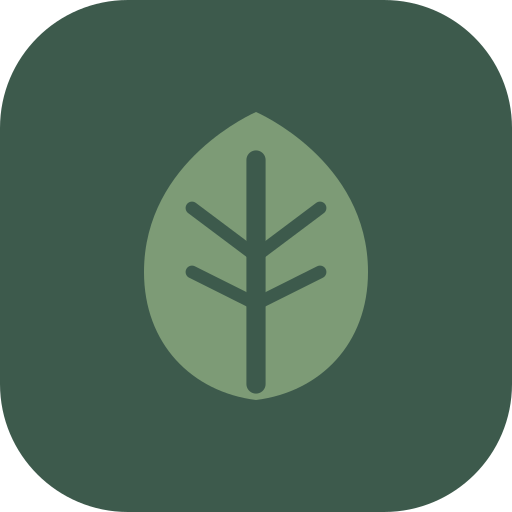
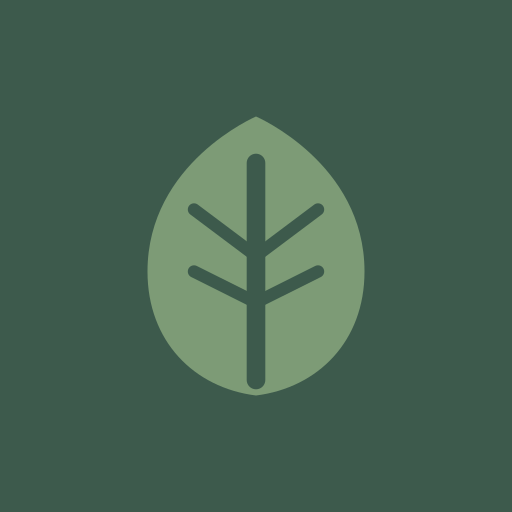
Add 'Before you begin' interstitial, tighten mobile padding, remove clinician nav link (#11)
* Add "Before you begin" interstitial, reduce mobile padding, remove clinician nav link

- Show PWA install prompt (mobile) or enable reminders (desktop) interstitial
  after clicking "Start my programme", before the date picker
- Reduce main content x-padding from 24px to 16px on mobile (px-4 sm:px-6)
- Remove "For clinicians" from nav bar (remains in footer)

* Add "Enable reminders (recommended)" option on date picker step

Shows a tappable button on the date picker card to enable notifications
before beginning. Displays a green confirmation once granted. Only shown
when notifications are supported and not already enabled.

* Change reminders on date picker to toggle switch style

Replaces the button/confirmation with a single toggle row showing
bell icon, label with "(recommended)", and a switch that triggers
the browser permission prompt on first tap.

* Show interstitial only for PWA install; skip to date picker on desktop

Desktop/already-installed users now go straight to the date picker
(which has the reminders toggle), avoiding a redundant "Before you
begin" screen. The interstitial only appears on mobile when the app
isn't installed as a PWA.

* Fix app icon: remove grey corners, enlarge leaf

Regular icons regenerated as full-bleed squares (no baked-in rounded
corners) with a larger leaf (scale 15.5 vs 12.8). The OS applies its
own mask shape, so baked-in rounding caused visible grey corners.
Maskable icons regenerated for consistency.
[…]

diff --git a/src/components/onboarding/WelcomePage.tsx b/src/components/onboarding/WelcomePage.tsx
@@ -1,7 +1,10 @@
 import { useState } from 'react';
 import { useNavigate } from 'react-router-dom';
-import { ArrowRight, Leaf, Heart, Zap, Users } from 'lucide-react';
+import { ArrowRight, Leaf, Heart, Zap, Users, Download, Bell, Share } from 'lucide-react';
 import { useSchedule } from '../../hooks/useSchedule';
+import { useInstallPrompt } from '../../hooks/useInstallPrompt';
+import * as notifications from '../../lib/notifications';
+import { getNotificationPrefs, setNotificationPrefs } from '../../lib/localStore';
 import HowItWorksSection from './HowItWorksSection';
 import { format } from '../../lib/dateUtils';
 import { spell } from '../../lib/spelling';
@@ -10,10 +13,11 @@ import { track } from '../../lib/analytics';
 export default function WelcomePage() {
   const navigate = useNavigate();
   const { createSchedule, schedule } = useSchedule();
+  const { isInstalled, canPrompt, isIOS, promptInstall } = useInstallPrompt();
+  const [showBeforeYouBegin, setShowBeforeYouBegin] = useState(false);
   const [showDatePicker, setShowDatePicker] = useState(false);
   const [startDate, setStartDate] = useState(format(new Date()));
   const [creating, setCreating] = useState(false);
-
   const handleStart = async () => {
     if (schedule) {
       track.programmeContinued();
@@ -31,6 +35,79 @@ export default function WelcomePage() {
     }
   };
 
+  const handleInstall = async () => {
+    await promptInstall();
+    setShowBeforeYouBegin(false);
+    setShowDatePicker(true);
+  };
+
+  const handleEnableReminders = async () => {
+    const granted = await notifications.requestPermission();
+    if (granted) {
+      const prefs = getNotificationPrefs();
+      setNotificationPrefs({ ...prefs, enabled: true });
+    }
+    setShowBeforeYouBegin(false);
+    setShowDatePicker(true);
+  };
+
+  const handleSkip = () => {
+    setShowBeforeYouBegin(false);
+    setShowDatePicker(true);
+  };
+
+  const canInstall = !isInstalled && (canPrompt || isIOS);
+
+  const renderInterstitial = () => (
+    <div className="bg-white rounded-2xl shadow-md border border-[#E8E4DE] p-6 w-full max-w-sm mx-4 text-center">
+      <p className="text-[#3D5A4C] font-semibold text-lg mb-2">Before you begin</p>
+      {canInstall ? (
+        <>
+          <p className="text-[#9E9B97] text-sm mb-5">
+            To get the most out of Bloom, we recommend installing it as an app for reminders and easy access.
+          </p>
+          {isIOS ? (
+            <div className="bg-[#F5F2ED] rounded-xl p-4 mb-4 text-left">
+              <p className="text-[#3D5A4C] text-sm font-medium mb-2">Add to home screen:</p>
+              <p className="text-[#9E9B97] text-sm">
+                Tap the <Share size={14} className="inline -mt-0.5" /> share button at the bottom of your screen, then tap <span className="font-medium text-[#3D5A4C]">Add to Home Screen</span>.
+              </p>
+            </div>
+          ) : (
+            <button
+              onClick={handleInstall}
+              className="w-full flex items-center justify-center gap-2 bg-[#7D9B76] text-white px-6 py-3 rounded-xl font-semibold hover:bg-[#5C7A55] transition-colors mb-3"
+            >
+              <Download size={18} />
+              Install Bloom
+            </button>
+          )}
+        </>
+      ) : (
+        <>
+          <p className="text-[#9E9B97] text-sm mb-5">
+            To get the most out of Bloom, we recommend enabling reminders so you don't miss your activities.
+          </p>
+          {notifications.isSupported() && (
+            <button
+              onClick={handleEnableReminders}
+              className="w-full flex items-center justify-center gap-2 bg-[#7D9B76] text-white px-6 py-3 rounded-xl font-semibold hover:bg-[#5C7A55] transition-colors mb-3"
+            >
+              <Bell size={18} />
+              Enable reminders
+            </button>
+          )}
+        </>
+      )}
+      <button
+        onClick={handleSkip}
+        className="text-[#9E9B97] text-sm hover:text-[#3D5A4C] transition-colors"
+      >
+        Continue without
+      </button>
+    </div>
+  );
+
   return (
     <div className="max-w-2xl mx-auto">
       {/* Hero */}
@@ -41,22 +118,28 @@ export default function WelcomePage() {
           </div>
         </div>
         <h1 className="text-4xl font-bold text-[#3D5A4C] mb-4">Bloom</h1>
-        <p className="text-xl text-[#7D9B76] font-medium mb-2">Small steps. Real change.</p>
-        <p className="text-[#9E9B97] max-w-md mx-auto">
-          A gentle 10-day {spell.programme.toLowerCase()} to help you reconnect with activities that bring
-          achievement, connection, and enjoyment back into your days.
-        </p>
+        {!showBeforeYouBegin && (
+          <p className="text-xl text-[#7D9B76] font-medium mb-2">Small steps. Real change.</p>
+        )}
+        {!showBeforeYouBegin && (
+          <p className="text-[#9E9B97] max-w-md mx-auto">
+            A gentle 10-day {spell.programme.toLowerCase()} to help you reconnect with activities that bring
+            achievement, connection, and enjoyment back into your days.
+          </p>
+        )}
 
         <div className="mt-10 flex justify-center gap-3">
-          {!showDatePicker && !schedule ? (
+          {schedule ? (
             <button
-              onClick={() => setShowDatePicker(true)}
+              onClick={() => navigate('/schedule')}
               className="flex items-center gap-2 bg-[#7D9B76] text-white px-8 py-4 rounded-xl font-semibold text-lg hover:bg-[#5C7A55] transition-colors shadow-md"
             >
-              Start my {spell.programme.toLowerCase()}
+              Continue my {spell.programme.toLowerCase()}
               <ArrowRight size={20} />
             </button>
-          ) : showDatePicker && !schedule ? (
+          ) : showBeforeYouBegin && !showDatePicker ? (
+            renderInterstitial()
+          ) : showDatePicker ? (
             <div className="bg-white rounded-2xl shadow-md border border-[#E8E4DE] p-6 w-full max-w-sm mx-4">
               <p className="text-[#3D5A4C] font-semibold mb-3">When does Day 1 start?</p>
               <input
@@ -77,10 +160,17 @@ export default function WelcomePage() {
             </div>
           ) : (
             <button
-              onClick={() => navigate('/schedule')}
+              onClick={() => {
+                // Skip interstitial if nothing to prompt for
+                if (isInstalled && notifications.hasPermission()) {
+                  setShowDatePicker(true);
+                } else {
+                  setShowBeforeYouBegin(true);
+                }
+              }}
               className="flex items-center gap-2 bg-[#7D9B76] text-white px-8 py-4 rounded-xl font-semibold text-lg hover:bg-[#5C7A55] transition-colors shadow-md"
             >
-              Continue my {spell.programme.toLowerCase()}
+              Start my {spell.programme.toLowerCase()}
               <ArrowRight size={20} />
             </button>
           )}

diff --git a/src/components/shared/Nav.tsx b/src/components/shared/Nav.tsx
@@ -1,12 +1,11 @@
 import { useState, useRef, useEffect } from 'react';
 import { NavLink } from 'react-router-dom';
-import { Calendar, BookOpen, BarChart2, Leaf, Stethoscope, Menu, X } from 'lucide-react';
+import { Calendar, BookOpen, BarChart2, Leaf, Menu, X } from 'lucide-react';
 
 const NAV_ITEMS = [
   { to: '/schedule', icon: Calendar, label: 'Schedule' },
   { to: '/catalogue', icon: BookOpen, label: 'Activities' },
   { to: '/progress', icon: BarChart2, label: 'Progress' },
-  { to: '/for-clinicians', icon: Stethoscope, label: 'For clinicians' },
 ] as const;
 
 export default function Nav() {

diff --git a/vite.config.ts b/vite.config.ts
@@ -9,7 +9,7 @@ export default defineConfig({
     tailwindcss(),
     VitePWA({
       registerType: 'autoUpdate',
-      includeAssets: ['favicon.svg'],
+      includeAssets: ['favicon.svg', 'icon.svg'],
       manifest: {
         name: 'Bloom — Behavioural Activation',
         short_name: 'Bloom',
@@ -21,7 +21,7 @@ export default defineConfig({
         scope: '/',
         icons: [
           {
-            src: '/favicon.svg',
+            src: '/icon.svg',
             sizes: 'any',
             type: 'image/svg+xml',
           },

diff --git a/src/components/shared/Layout.tsx b/src/components/shared/Layout.tsx
@@ -6,7 +6,7 @@ export default function Layout() {
   return (
     <div className="min-h-screen bg-[#FAF6F0] flex flex-col overflow-x-hidden">
       <Nav />
-      <main className="max-w-6xl mx-auto px-6 py-10 flex-1 w-full">
+      <main className="max-w-6xl mx-auto px-4 sm:px-6 py-10 flex-1 w-full">
         <Outlet />
       </main>
       <Footer />
